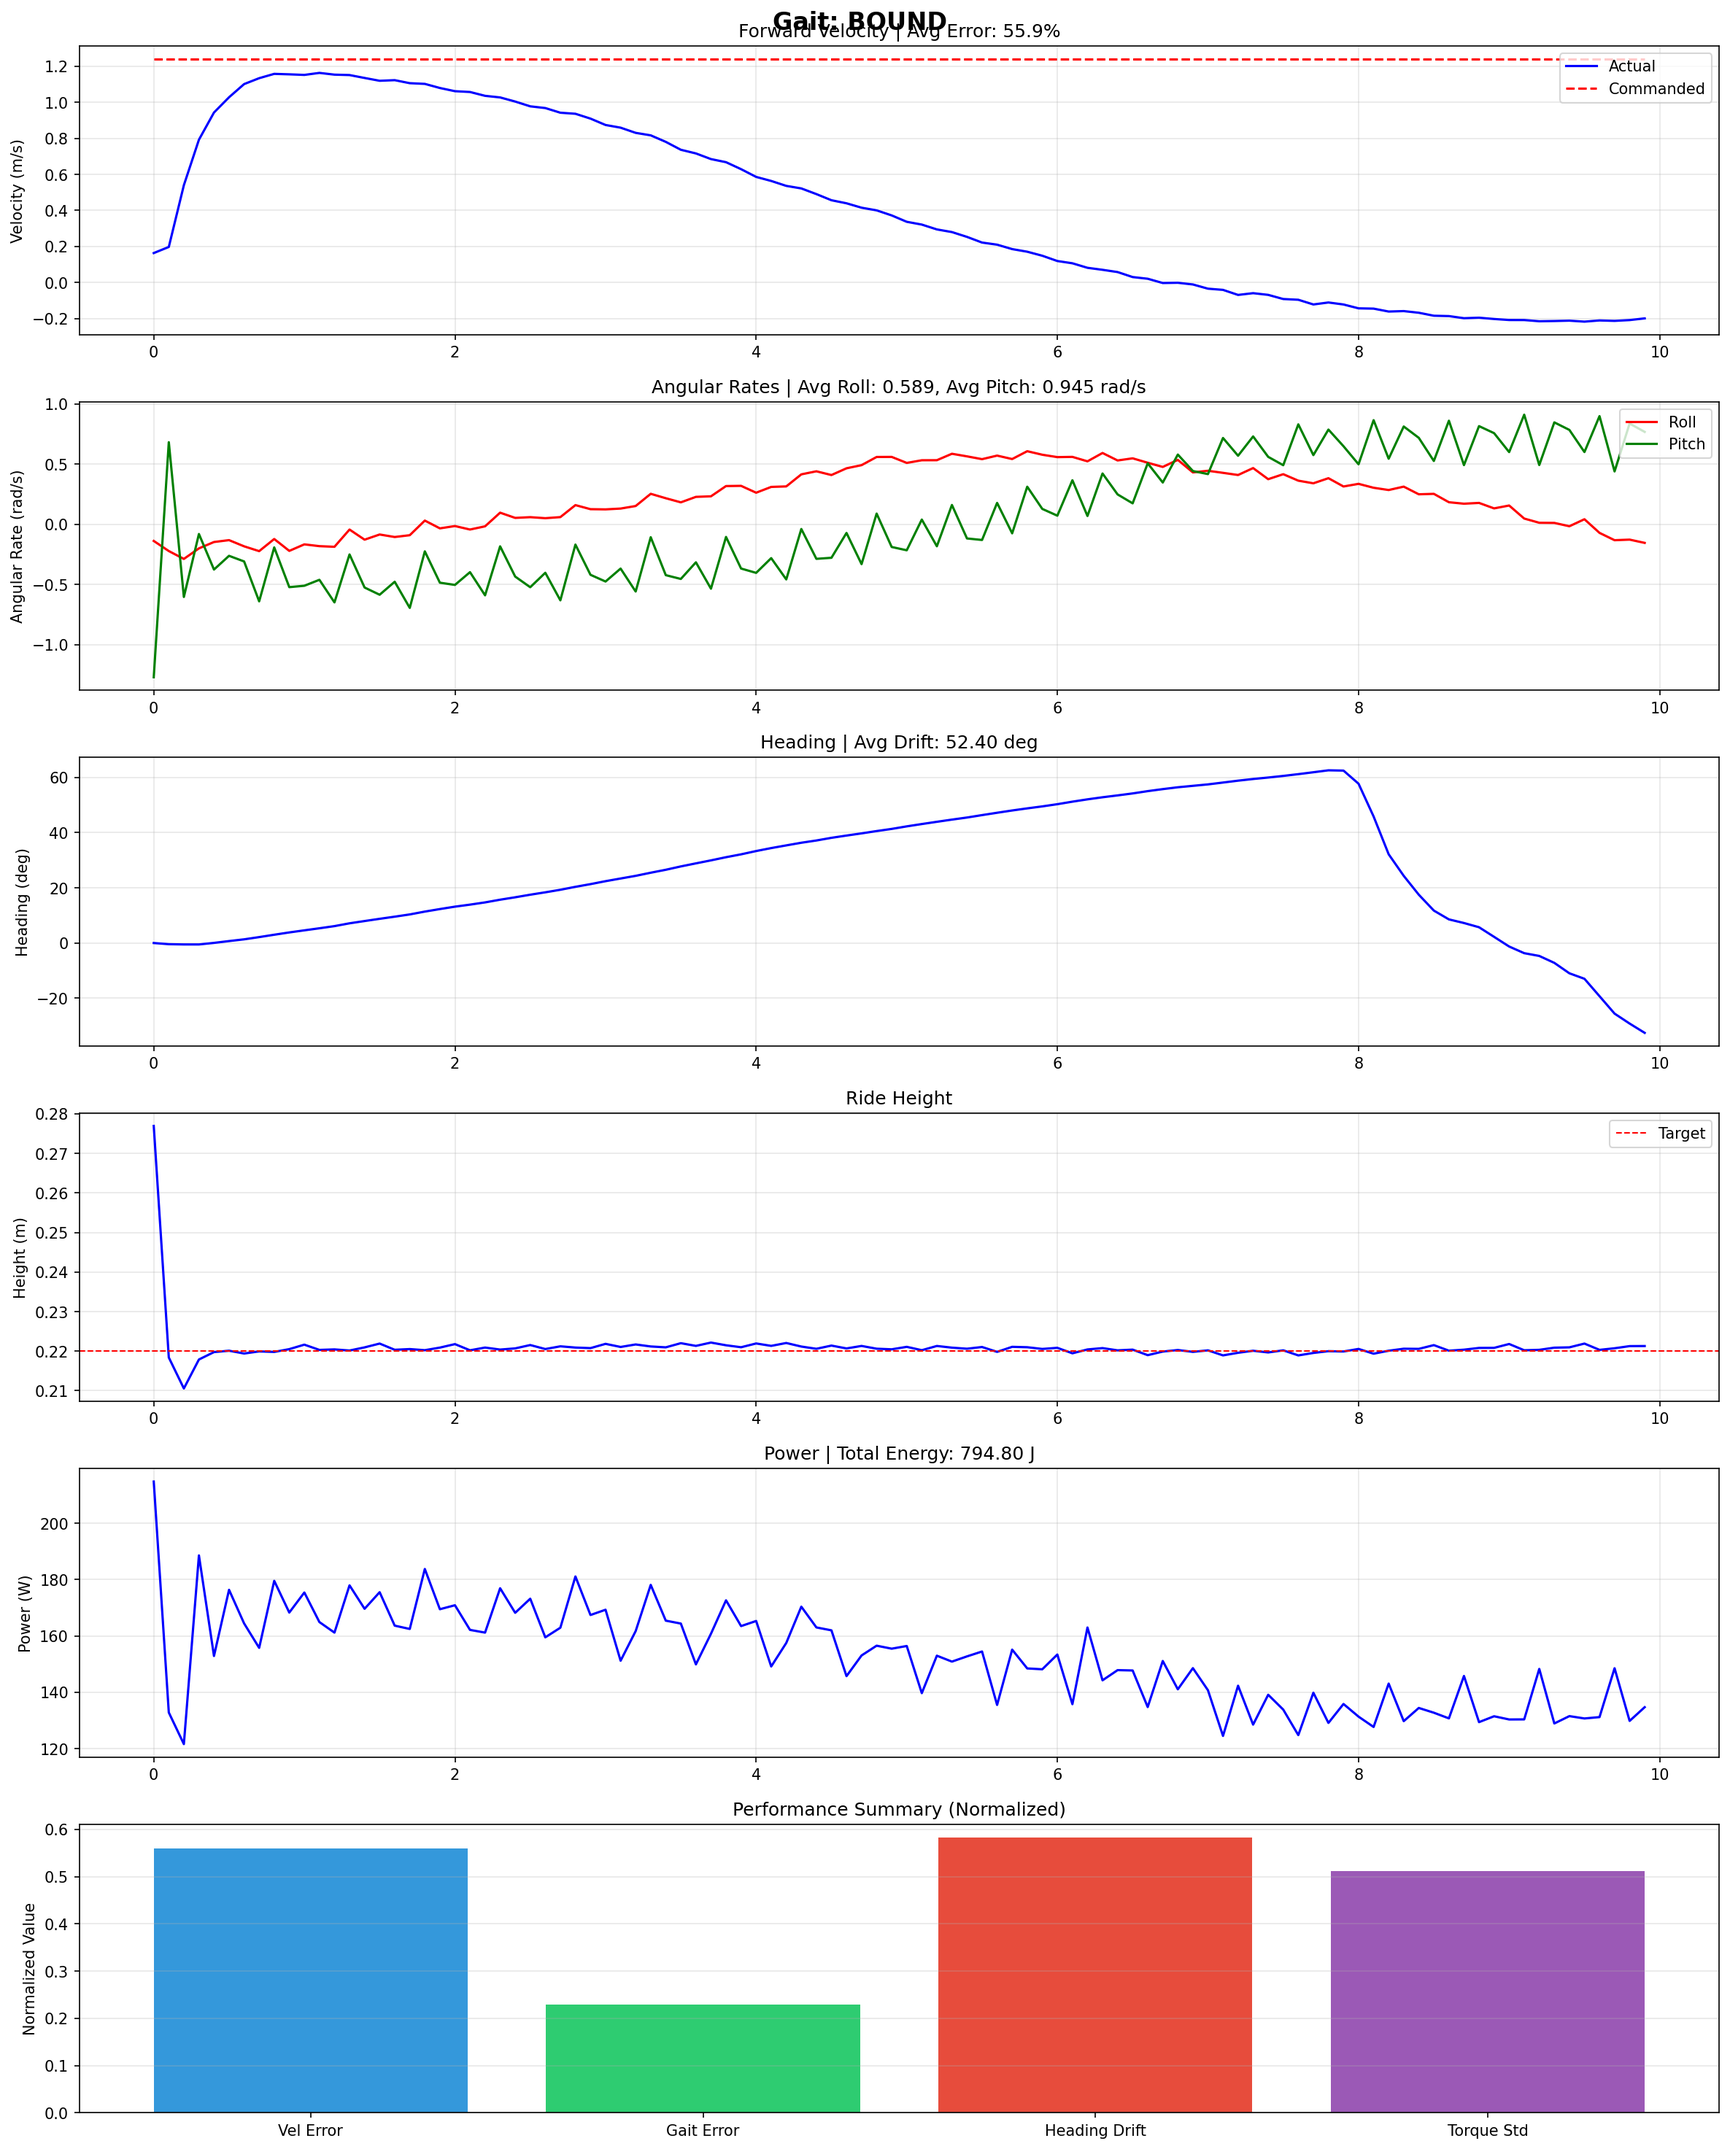
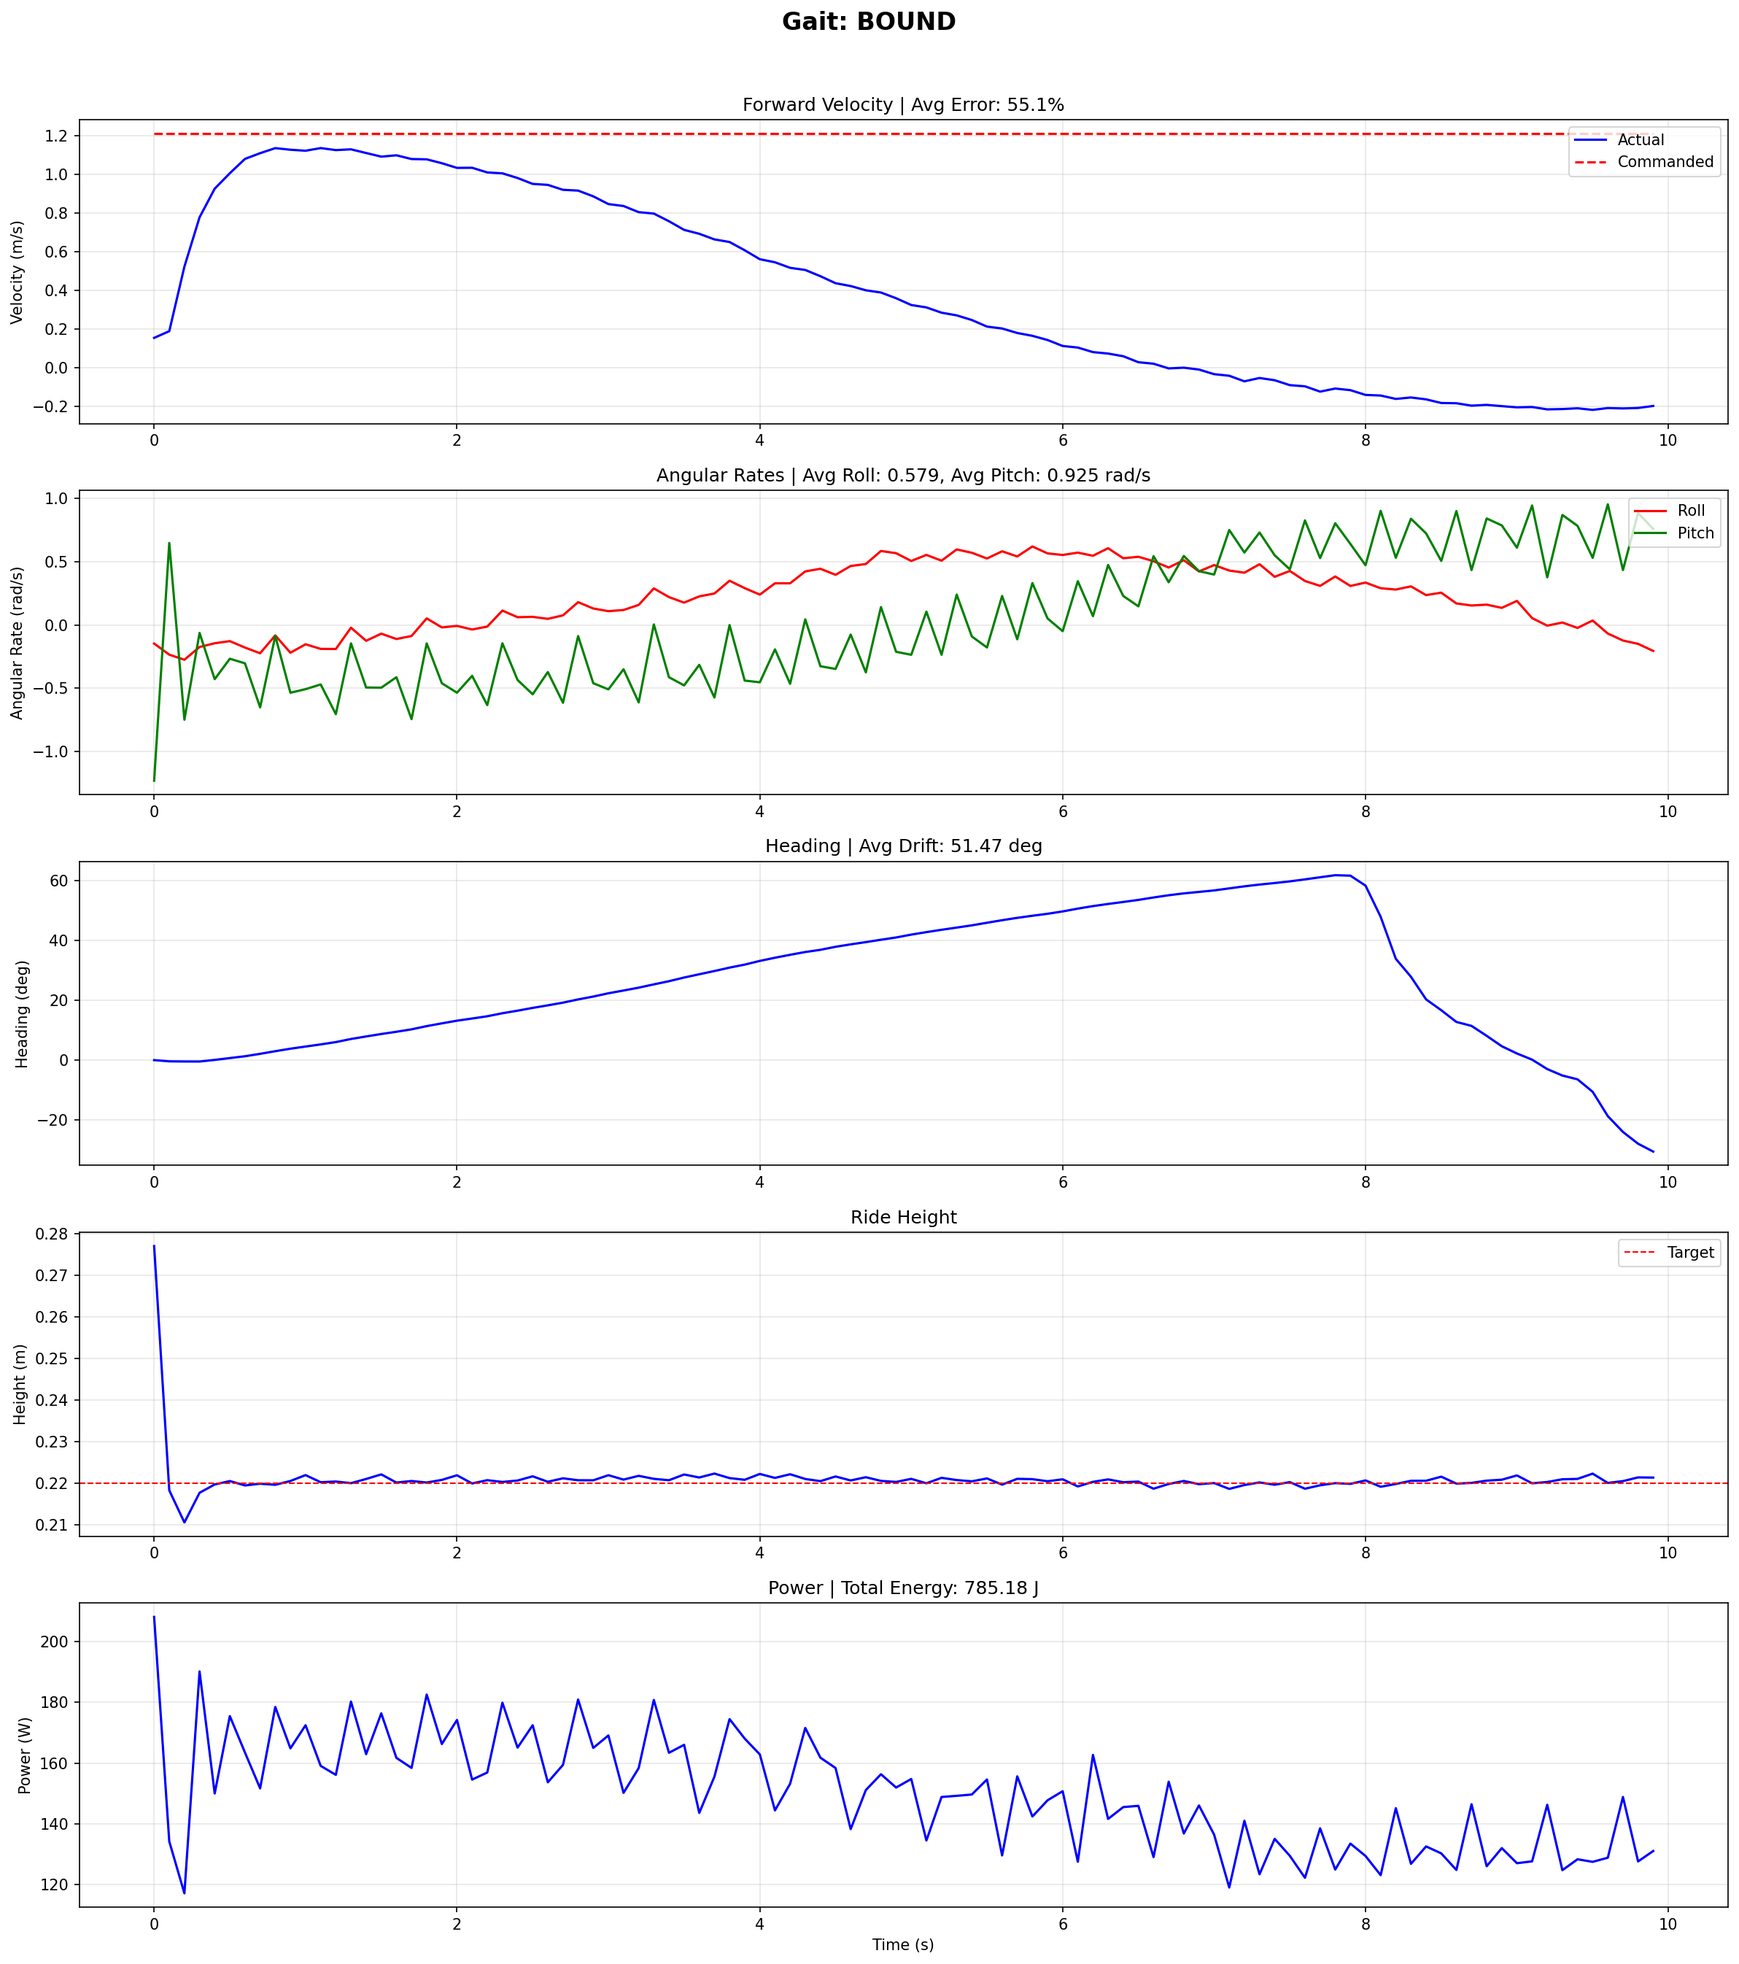
savestate before extending history

diff --git a/evaluate_flat.py b/evaluate_flat.py
@@ -11,7 +11,7 @@ os.environ["PYTORCH_NVFUSER_DISABLE_FALLBACK"] = "1"
 os.environ["TORCH_ALLOW_TF32_CUBLAS_OVERRIDE"] = "1"
 
 import matplotlib
-matplotlib.use('Agg')
+matplotlib.use('TkAgg')
 
 from isaaclab.app import AppLauncher
 
@@ -57,6 +57,9 @@ class GaitStatistics:
     time_series_heading: list = field(default_factory=list)
     time_series_height: list = field(default_factory=list)
     time_series_time: list = field(default_factory=list)
+    # New fields for per-env data
+    time_series_velocity_envs: list = field(default_factory=list)
+    time_series_commanded_envs: list = field(default_factory=list)
     
     transient_samples: int = 0
     
@@ -145,7 +148,17 @@ class FlatGroundEvaluator:
         
         isaac_env = ManagerBasedRLEnv(cfg=env_cfg)
         env = IsaacLabVecEnvWrapper(isaac_env)
-        
+
+        # Assign a different random velocity command to each environment
+        cmd_manager = isaac_env.command_manager
+        if hasattr(cmd_manager, 'get_command'):
+            velocity_cmd = cmd_manager.get_command("base_velocity")
+            if velocity_cmd is not None:
+                num_envs = env_cfg.scene.num_envs
+                low, high = env_cfg.commands.base_velocity.ranges.lin_vel_x
+                velocity_cmd[:, 0] = torch.FloatTensor(num_envs).uniform_(low, high)
+                # lin_vel_y and ang_vel_z are already set to 0
+
         return env, isaac_env, env_cfg
     
     def set_gait_for_all_envs(self, env, gait_type: GaitType):
@@ -253,6 +266,9 @@ class FlatGroundEvaluator:
                 stats.time_series_pitch_rate.append(pitch_rate.mean().item())
                 stats.time_series_heading.append(current_heading_deg.mean().item())
                 stats.time_series_height.append(root_pos[:, 2].mean().item())
+                # Store per-env arrays for scatter plot
+                stats.time_series_velocity_envs.append(actual_vel.cpu().numpy().copy())
+                stats.time_series_commanded_envs.append(commanded_vel.cpu().numpy().copy())
             
             if dones.any():
                 done_indices = dones.nonzero(as_tuple=False).squeeze(-1)
@@ -317,10 +333,10 @@ class FlatGroundEvaluator:
             
             time = np.array(stats.time_series_time)
             
-            fig = plt.figure(figsize=(16, 20))
-            fig.suptitle(f"Gait: {gait_name.upper()}", fontsize=16, fontweight='bold')
+            fig = plt.figure(figsize=(16, 18))
+            fig.suptitle(f"Gait: {gait_name.upper()}", fontsize=16, fontweight='bold', y=0.995)
             
-            ax1 = fig.add_subplot(6, 1, 1)
+            ax1 = fig.add_subplot(5, 1, 1)
             ax1.plot(time, stats.time_series_velocity, 'b-', linewidth=1.5, label='Actual')
             ax1.plot(time, stats.time_series_commanded, 'r--', linewidth=1.5, label='Commanded')
             ax1.set_ylabel('Velocity (m/s)')
@@ -328,7 +344,7 @@ class FlatGroundEvaluator:
             ax1.legend(loc='upper right')
             ax1.grid(True, alpha=0.3)
             
-            ax2 = fig.add_subplot(6, 1, 2)
+            ax2 = fig.add_subplot(5, 1, 2)
             ax2.plot(time, stats.time_series_roll_rate, 'r-', linewidth=1.5, label='Roll')
             ax2.plot(time, stats.time_series_pitch_rate, 'g-', linewidth=1.5, label='Pitch')
             ax2.set_ylabel('Angular Rate (rad/s)')
@@ -336,13 +352,13 @@ class FlatGroundEvaluator:
             ax2.legend(loc='upper right')
             ax2.grid(True, alpha=0.3)
             
-            ax3 = fig.add_subplot(6, 1, 3)
+            ax3 = fig.add_subplot(5, 1, 3)
             ax3.plot(time, stats.time_series_heading, 'b-', linewidth=1.5)
             ax3.set_ylabel('Heading (deg)')
             ax3.set_title(f'Heading | Avg Drift: {stats.avg_heading_drift():.2f} deg')
             ax3.grid(True, alpha=0.3)
             
-            ax4 = fig.add_subplot(6, 1, 4)
+            ax4 = fig.add_subplot(5, 1, 4)
             ax4.plot(time, stats.time_series_height, 'b-', linewidth=1.5)
             ax4.axhline(y=0.22, color='r', linestyle='--', linewidth=1.0, label='Target')
             ax4.set_ylabel('Height (m)')
@@ -350,164 +366,60 @@ class FlatGroundEvaluator:
             ax4.legend(loc='upper right')
             ax4.grid(True, alpha=0.3)
             
-            ax5 = fig.add_subplot(6, 1, 5)
+            ax5 = fig.add_subplot(5, 1, 5)
             ax5.plot(time, stats.time_series_power, 'b-', linewidth=1.5)
             ax5.set_ylabel('Power (W)')
+            ax5.set_xlabel('Time (s)')
             ax5.set_title(f'Power | Total Energy: {stats.avg_energy():.2f} J')
             ax5.grid(True, alpha=0.3)
             
-            ax6 = fig.add_subplot(6, 1, 6)
-            metrics = ['Vel Error', 'Gait Error', 'Heading Drift', 'Torque Std']
-            values = [
-                stats.avg_velocity_error() / 100,
-                stats.avg_gait_timing_error(),
-                stats.avg_heading_drift() / 90,
-                stats.std_joint_torque() / 10,
-            ]
-            bar_colors = ['#3498db', '#2ecc71', '#e74c3c', '#9b59b6']
-            ax6.bar(metrics, values, color=bar_colors)
-            ax6.set_ylabel('Normalized Value')
-            ax6.set_title('Performance Summary (Normalized)')
-            ax6.grid(True, alpha=0.3, axis='y')
-            
-            plt.tight_layout()
+            plt.tight_layout(rect=[0, 0, 1, 0.98])
             
             output_path = os.path.join(self.plots_dir, f"gait_{gait_name}.png")
-            try:
-                fig.savefig(output_path, dpi=150, bbox_inches='tight')
-                print(f"    Saved plot: {output_path}")
-            except Exception as e:
-                print(f"    Error saving plot: {e}")
+            plt.savefig(output_path, dpi=150, bbox_inches='tight')
+            plt.show()
             plt.close(fig)
-    
+            print(f"    Saved plot: {output_path}")
+
     def generate_comparison_plots(self):
-        """Generate comparison plots across all gaits."""
         gait_names = [GAIT_PARAMS[gt].name for gt in self.enabled_gaits]
         colors = plt.cm.tab10(np.linspace(0, 1, len(gait_names)))
-        
-        fig, axes = plt.subplots(3, 2, figsize=(14, 12))
-        fig.suptitle('Gait Comparison', fontsize=14, fontweight='bold')
-        
-        ax = axes[0, 0]
+
+        plt.figure(figsize=(10, 7))
+        num_envs = self.num_envs_per_gait
+        steady_steps = 100  # matches your actual number of recorded steps
+
         for i, gait_name in enumerate(gait_names):
             stats = self.gait_stats[gait_name]
-            if stats.time_series_time:
-                ax.plot(stats.time_series_time, stats.time_series_velocity, 
-                       color=colors[i], linewidth=1.5, label=gait_name)
-        ax.set_xlabel('Time (s)')
-        ax.set_ylabel('Velocity (m/s)')
-        ax.set_title('Forward Velocity')
-        ax.legend(loc='upper right')
-        ax.grid(True, alpha=0.3)
-        
-        ax = axes[0, 1]
-        for i, gait_name in enumerate(gait_names):
-            stats = self.gait_stats[gait_name]
-            if stats.time_series_time:
-                ax.plot(stats.time_series_time, stats.time_series_power, 
-                       color=colors[i], linewidth=1.5, label=gait_name)
-        ax.set_xlabel('Time (s)')
-        ax.set_ylabel('Power (W)')
-        ax.set_title('Power Consumption')
-        ax.legend(loc='upper right')
-        ax.grid(True, alpha=0.3)
-        
-        ax = axes[1, 0]
-        for i, gait_name in enumerate(gait_names):
-            stats = self.gait_stats[gait_name]
-            if stats.time_series_time:
-                ax.plot(stats.time_series_time, stats.time_series_roll_rate, 
-                       color=colors[i], linewidth=1.5, label=gait_name)
-        ax.set_xlabel('Time (s)')
-        ax.set_ylabel('Roll Rate (rad/s)')
-        ax.set_title('Roll Rate')
-        ax.legend(loc='upper right')
-        ax.grid(True, alpha=0.3)
-        
-        ax = axes[1, 1]
-        for i, gait_name in enumerate(gait_names):
-            stats = self.gait_stats[gait_name]
-            if stats.time_series_time:
-                ax.plot(stats.time_series_time, stats.time_series_pitch_rate, 
-                       color=colors[i], linewidth=1.5, label=gait_name)
-        ax.set_xlabel('Time (s)')
-        ax.set_ylabel('Pitch Rate (rad/s)')
-        ax.set_title('Pitch Rate')
-        ax.legend(loc='upper right')
-        ax.grid(True, alpha=0.3)
-        
-        ax = axes[2, 0]
-        for i, gait_name in enumerate(gait_names):
-            stats = self.gait_stats[gait_name]
-            if stats.time_series_time:
-                ax.plot(stats.time_series_time, stats.time_series_heading, 
-                       color=colors[i], linewidth=1.5, label=gait_name)
-        ax.set_xlabel('Time (s)')
-        ax.set_ylabel('Heading (deg)')
-        ax.set_title('Heading')
-        ax.legend(loc='upper right')
-        ax.grid(True, alpha=0.3)
-        
-        ax = axes[2, 1]
-        for i, gait_name in enumerate(gait_names):
-            stats = self.gait_stats[gait_name]
-            if stats.time_series_time:
-                ax.plot(stats.time_series_time, stats.time_series_height, 
-                       color=colors[i], linewidth=1.5, label=gait_name)
-        ax.axhline(y=0.22, color='k', linestyle='--', linewidth=1.0, label='Target')
-        ax.set_xlabel('Time (s)')
-        ax.set_ylabel('Height (m)')
-        ax.set_title('Ride Height')
-        ax.legend(loc='upper right')
-        ax.grid(True, alpha=0.3)
-        
-        plt.tight_layout()
-        
-        output_path = os.path.join(self.plots_dir, "gait_comparison_timeseries.png")
-        fig.savefig(output_path, dpi=150, bbox_inches='tight')
-        plt.close(fig)
-        
+            if len(stats.time_series_commanded_envs) == 0 or len(stats.time_series_velocity_envs) == 0:
+                print(f"{gait_name}: No data to plot.")
+                continue
+            commanded = np.stack(stats.time_series_commanded_envs)  # (num_recordings, num_envs)
+            actual = np.stack(stats.time_series_velocity_envs)
+            total_steps = commanded.shape[0]
+            if total_steps < steady_steps:
+                print(f"{gait_name}: Not enough steps to plot. total_steps={total_steps}")
+                continue
+            commanded_steady = commanded[-steady_steps:]
+            actual_steady = actual[-steady_steps:]
+            vel_error = np.abs(actual_steady - commanded_steady)
+            mean_error_per_env = np.mean(vel_error, axis=0)
+            mean_commanded_per_env = np.mean(commanded_steady, axis=0)
+            print(f"{gait_name}: mean_commanded_per_env shape: {mean_commanded_per_env.shape}, mean_error_per_env shape: {mean_error_per_env.shape}")
+            print(f"{gait_name}: mean_commanded_per_env sample: {mean_commanded_per_env[:5]}")
+            print(f"{gait_name}: mean_error_per_env sample: {mean_error_per_env[:5]}")
+            plt.scatter(mean_commanded_per_env, mean_error_per_env, color=colors[i], s=12, alpha=0.7, label=gait_name)
+        plt.xlabel('Mean Commanded Velocity (m/s)')
+        plt.ylabel('Mean Steady-State Velocity Error (m/s)')
+        plt.title('Steady-State Velocity Error vs Commanded Velocity (per env)')
+        plt.legend()
+        plt.grid(True, alpha=0.3)
+        output_path = os.path.join(self.plots_dir, "gait_comparison.png")
+        plt.savefig(output_path, dpi=150, bbox_inches='tight')
+        plt.show()
+        plt.close()
         print(f"  Saved comparison plot: {output_path}")
-        
-        fig, ax = plt.subplots(figsize=(12, 6))
-        
-        metrics = ['Energy\n(J)', 'Vel Error\n(%)', 'Gait Error\n(x100)', 
-                   'Heading Drift\n(deg)', 'Torque Std\n(Nm)', 
-                   'Pitch Rate\n(rad/s)', 'Roll Rate\n(rad/s)']
-        
-        x = np.arange(len(metrics))
-        width = 0.8 / len(gait_names)
-        
-        for i, gait_name in enumerate(gait_names):
-            stats = self.gait_stats[gait_name]
-            values = [
-                stats.avg_energy(),
-                stats.avg_velocity_error(),
-                stats.avg_gait_timing_error() * 100,
-                stats.avg_heading_drift(),
-                stats.std_joint_torque(),
-                stats.avg_pitch_rate(),
-                stats.avg_roll_rate(),
-            ]
-            offset = (i - len(gait_names) / 2 + 0.5) * width
-            ax.bar(x + offset, values, width, label=gait_name, color=colors[i])
-        
-        ax.set_xlabel('Metric')
-        ax.set_ylabel('Value')
-        ax.set_title('Performance Metrics by Gait')
-        ax.set_xticks(x)
-        ax.set_xticklabels(metrics)
-        ax.legend(loc='upper right')
-        ax.grid(True, alpha=0.3, axis='y')
-        
-        plt.tight_layout()
-        
-        output_path = os.path.join(self.plots_dir, "gait_comparison_bar.png")
-        fig.savefig(output_path, dpi=150, bbox_inches='tight')
-        plt.close(fig)
-        
-        print(f"  Saved bar chart: {output_path}")
-    
+
     def run(self):
         """Run the full evaluation."""
         self.setup_dirs()
